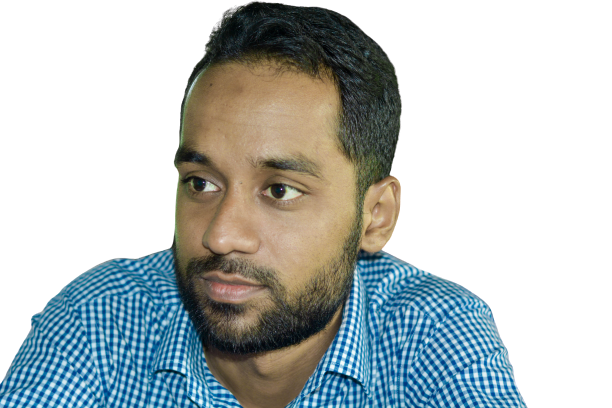
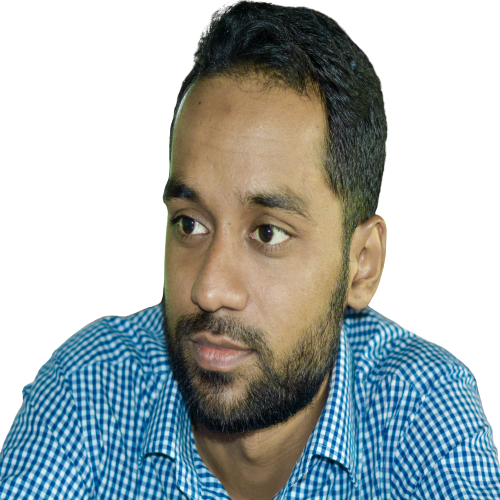
Contact and form section

diff --git a/index.html b/index.html
@@ -15,6 +15,7 @@
     <title>Hi there! This is Shahadat</title>
 
     <script src="https://kit.fontawesome.com/yourcode.js"></script>
+    <link rel="stylesheet" href="https://pro.fontawesome.com/releases/v5.10.0/css/all.css" integrity="sha384-AYmEC3Yw5cVb3ZcuHtOA93w35dYTsvhLPVnYs9eStHfGJvOvKxVfELGroGkvsg+p" crossorigin="anonymous"/>
   </head>
 
 
@@ -30,6 +31,7 @@
         </div>
       </div>
     </section>
+
 
 
     <!-- Navbar Section -->
@@ -48,7 +50,7 @@
             <a class="nav-link" href="#Education">EDUCATION</a>
           </li>
           <li class="nav-item">
-            <a class="nav-link" href="#Project">PROJECT</a>
+            <a class="nav-link" href="#Project">PROJECTS</a>
           </li>
           <li class="nav-item">
             <a class="nav-link" href="#Portfolio">PORTFOLIO</a>
@@ -64,9 +66,12 @@
       </div>
     </nav>
 
+
+
+
     <!-- This is About Section -->
 
-    <div class="about-container">
+    <div class="about-container" id="About">
       <div class="container">
         <div class="row align-items-center justify-content-center">
 
@@ -82,12 +87,284 @@
             <p>Lorem ipsum dolor sit amet, consectetur adipisicing elit. Facilis esse deserunt fuga porro provident unde nihil veniam quibusdam ducimus, et tempora quia rerum, facere fugit! Eos fugiat eligendi quasi necessitatibus qui, ducimus aspernatur possimus, ex minima explicabo optio velit vitae.</p>
           </div>
 
-          <div class="col-md-3 pl-5">
-            <img src="/Bohubrihi HTML, CSS and Bootstrap Prjoect/img/Profile.png" alt="Shahadat" class="img-fluid rounded rounded-circle border border-light">
+          <div class="col-md-3 mb-5">
+            <img src="/Bohubrihi HTML, CSS and Bootstrap Prjoect/img/Me2.png" alt="Shahadat" class="img-fluid rounded rounded-circle border border-light">
           </div>
         </div>
       </div>
     </div>
+
+
+
+
+    <!-- This is education section -->
+
+    <div class="education-container" id="Education">
+      <div class="container">
+        <div class="row text-center">
+          <div class="col py-5">
+            <h2 class="redtype-color font-weight-bolder">Education</h2>
+          </div>
+        </div>
+
+        <div class="row py-4 my-4 align-items-center justify-content-center">
+          <div class="col-md-2 pb-3 mx-3">
+            <div class="circle-education text-center text-white">
+              <p class="py-5">Jan, 2012 <br> Dec, 2015</p>
+            </div>
+          </div>
+
+          <div class="col-md-9">
+            <div class="card ml-4">
+              <div class="card-body">
+                Lorem ipsum dolor sit amet consectetur adipisicing elit. Sint exercitationem incidunt eius repellendus excepturi suscipit magni assumenda expedita. Animi laborum eaque beatae quas voluptas atque dolores aspernatur ad voluptatum quos repudiandae corrupti, cum laudantium ducimus assumenda maxime enim explicabo quidem consectetur quam nemo. Ut autem quia maxime! Voluptatibus, nesciunt necessitatibus?
+              </div>
+            </div>
+          </div>
+        </div>
+
+        <div class="row py-4 my-4 align-items-center justify-content-center">
+          <div class="col-md-2 pb-3 mx-3">
+            <div class="circle-education text-center text-white">
+              <p class="py-5">Jan, 2012 <br> Dec, 2015</p>
+            </div>
+          </div>
+
+          <div class="col-md-9">
+            <div class="card ml-4">
+              <div class="card-body">
+                Lorem ipsum dolor sit amet consectetur adipisicing elit. Sint exercitationem incidunt eius repellendus excepturi suscipit magni assumenda expedita. Animi laborum eaque beatae quas voluptas atque dolores aspernatur ad voluptatum quos repudiandae corrupti, cum laudantium ducimus assumenda maxime enim explicabo quidem consectetur quam nemo. Ut autem quia maxime! Voluptatibus, nesciunt necessitatibus?
+              </div>
+            </div>
+          </div>
+        </div>
+      </div>
+    </div>
+
+
+
+
+    <!-- This is Project Section -->
+
+
+    <div class="project-container" id="Project">
+      <div class="container">
+        <div class="row">
+          <div class="col py-5">
+            <h2 class="text-white text-center text-weight-bolder">Projects</h2>
+          </div>
+        </div>
+
+        <div class="row py-5">
+          <div class="col-md-3">
+            <img src="/Bohubrihi HTML, CSS and Bootstrap Prjoect/img/Pro1.jpg" alt="Mark Zakarburg">
+            <a href="" class="text-white">Lorem ipsum dolor sit amet consectetur, adipisicing elit. Recusandae, voluptatum.</a>
+            <p>10:45AM</p>
+          </div>
+
+          <div class="col-md-3">
+            <img src="/Bohubrihi HTML, CSS and Bootstrap Prjoect/img/Pro2.jpg" alt="Bill Gates">
+            <a href="" class="text-white">Lorem ipsum dolor sit amet consectetur, adipisicing elit. Recusandae, voluptatum.</a>
+            <p>10:45AM</p>
+          </div>
+
+          <div class="col-md-3">
+            <img src="/Bohubrihi HTML, CSS and Bootstrap Prjoect/img/Pro3.jpg" alt="Steve Jobs">
+            <a href="" class="text-white">Lorem ipsum dolor sit amet consectetur, adipisicing elit. Recusandae, voluptatum.</a>
+            <p>10:45AM</p>
+          </div>
+
+          <div class="col-md-3">
+            <img src="/Bohubrihi HTML, CSS and Bootstrap Prjoect/img/Pro4.jpg" alt="Sundor Pichai">
+            <a href="" class="text-white">Lorem ipsum dolor sit amet consectetur, adipisicing elit. Recusandae, voluptatum.</a>
+            <p>10:45AM</p>
+
+          </div>
+        </div>
+      </div>
+    </div>
+
+
+
+    <!-- This is Portfolio Section -->
+
+    <div class="container" id="Portfolio">
+      <div class="row text-center py-5">
+        <div class="col">
+          <h2 class="redtype-color font-weight-bolder">Portfolio</h2>
+        </div>
+      </div>
+
+      <div class="row py-3">
+        <div class="col-md-4">
+          <div class="card">
+            <div class="card-body">
+              <img src="/Bohubrihi HTML, CSS and Bootstrap Prjoect/img/Pro2.jpg" alt="" class="img-fluid portfolio-img">
+            </div>
+          </div>
+        </div>
+
+        <div class="col-md-4">
+          <div class="card">
+            <div class="card-body">
+              <img src="/Bohubrihi HTML, CSS and Bootstrap Prjoect/img/Pro1.jpg" alt="" class="img-fluid portfolio-img">
+            </div>
+          </div>
+        </div>
+
+        <div class="col-md-4">
+          <div class="card">
+            <div class="card-body">
+              <img src="/Bohubrihi HTML, CSS and Bootstrap Prjoect/img/Pro4.jpg" alt="" class="img-fluid portfolio-img">
+            </div>
+          </div>
+        </div>
+      </div>
+
+      
+
+      <div class="row py-3">
+        <div class="col-md-4">
+          <div class="card">
+            <div class="card-body">
+              <img src="/Bohubrihi HTML, CSS and Bootstrap Prjoect/img/Pro3.jpg" alt="" class="img-fluid portfolio-img">
+            </div>
+          </div>
+        </div>
+
+        <div class="col-md-4">
+          <div class="card">
+            <div class="card-body">
+              <img src="/Bohubrihi HTML, CSS and Bootstrap Prjoect/img/Pro2.jpg" alt="" class="img-fluid portfolio-img">
+            </div>
+          </div>
+        </div>
+
+        <div class="col-md-4">
+          <div class="card">
+            <div class="card-body">
+              <img src="/Bohubrihi HTML, CSS and Bootstrap Prjoect/img/Pro1.jpg" alt="" class="img-fluid portfolio-img">
+            </div>
+          </div>
+        </div>
+      </div>
+    </div>
+
+
+
+    <!-- This is Contact Section -->
+
+    <div class="form-container" id="Contact">
+      <div class="container">
+        <div class="row py-5">
+          <div class="col text-white text-center m-auto">
+            <h2 class="font-weight-bold">It was a bumpy road</h2>
+            <p>But dreams have a tendency to play hard to get right?</p>
+          </div>
+        </div>
+
+        <div class="row py-4 text-center">
+          <div class="col-sm border mr-1 border-light text-white">
+            <span style="font-size: 72px;">29</span>
+            <h4>Failed Attempts</h4>
+          </div>
+
+          <div class="col-sm border mr-1 border-light text-white">
+            <span style="font-size: 72px;">36</span>
+            <h4>Succesful Attempts</h4>
+          </div>
+
+          <div class="col-sm border mr-1 border-light text-white">
+            <span style="font-size: 72px;">73</span>
+            <h4>Projects</h4>
+          </div>
+
+          <div class="col-sm border mr-1 border-light text-white">
+            <span style="font-size: 72px;">96</span>
+            <h4>Problem Solved</h4>
+          </div>
+        </div>
+
+
+        <div class="row py-5">
+          <div class="col text-white text-center m-auto">
+            <h2 class="font-weight-bold">Get In Touch</h2>
+            <p>I can be totally stalked online. Give me a shout-out</p>
+          </div>
+        </div>
+
+        <div class="row pb-3">
+          <div class="col text-white">
+            <h4>Shoot a message!</h4>
+          </div>
+        </div>
+
+
+        <form action="backend.php">
+          <div class="form-row pb-4">
+            <div class="col">
+              <input type="text" class="form-control inner-form" placeholder="Your Name">
+            </div>
+
+            <div class="col">
+              <input type="text" class="form-control inner-form" placeholder="Your Email">
+            </div>
+          </div>
+
+          <div class="form-row pb-3">
+            <div class="col">
+              <textarea name="" class="form-control inner-form" id="" cols="30" rows="5" placeholder="Your Message"></textarea>
+            </div>
+          </div>
+
+          <div class="form-row pb-5">
+            <div class="col">
+              <button class="btn bg-redtype py-3 text-white">Send Message</button>
+            </div>
+          </div>
+        </form>
+      </div>
+    </div>
+
+
+
+    <!-- This is footer Section -->
+
+    <section>
+      <div class="footer">
+        <div class="container">
+          <div class="row py-5 text-white text-center">
+            <div class="col">
+              <em>"Work hard in silence, let your success be your noise"</em>
+              <p>-Frank Ocean</p>
+            </div>
+          </div>
+
+          <div class="row">
+            <div class="col text-center pb-5">
+              <div class="circle">
+                <i class="fab fa-facebook-f"></i>
+              </div>
+
+              <div class="circle">
+                <i class="fab fa-youtube"></i>
+              </div>
+
+              <div class="circle">
+                <i class="fab fa-github"></i>
+              </div>
+            </div>
+          </div>
+
+          <div class="row">
+            <div class="col text-center">
+              <p>&copy; All Rights Reserved To MOHAMMED SHAHADAT HOSSAIN</p>
+            </div>
+          </div>
+        </div>
+      </div>
+    </section>
+    
 
     <!-- Optional JavaScript -->
     <!-- jQuery first, then Popper.js, then Bootstrap JS -->

diff --git a/CSS/style.css b/CSS/style.css
@@ -11,9 +11,70 @@ body{
 }
 
 .navbar-container{
+    top: 0;
     background-color: #262B37;
+    position: sticky;
+    z-index: 2;
 }
 
 .about-container{
     background-color: #00BDBD;
+}
+
+.education-container{
+    background-color: #EEEEEE;
+}
+
+.bg-redtype{
+    background-color: #FB857F;
+}
+
+.bg-redtype:hover{
+    color: black!important;
+}
+
+.redtype-color{
+    color: #FB857F;
+}
+
+.circle-education{
+    background-color: #FB857F;
+    width: 150px;
+    height: 150px;
+    border-radius: 50%;
+}
+
+.project-container{
+    background-color: #2BB3DD;
+}
+
+.portfolio-img{
+    width: 310px;
+}
+
+.form-container{
+    background-color: #474D5D;
+}
+
+.inner-form{
+    background-color: #585F73;
+}
+
+.footer{
+    background-color: #2BB3DD;
+}
+
+.circle{
+    width: 60px;
+    height: 60px;
+    border-radius: 50%;
+    display: inline-block;
+    background-color: white;
+    font-size: 40px;
+    text-align: center;
+    color:  #2BB3DD
+}
+
+.circle:hover{
+    background-color: #474D5D;
 }
